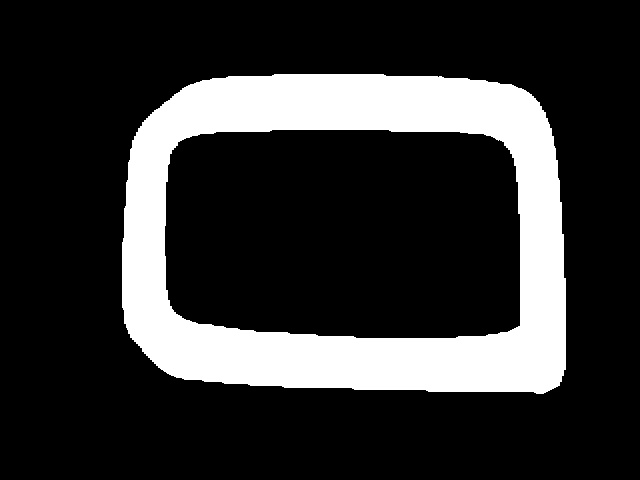
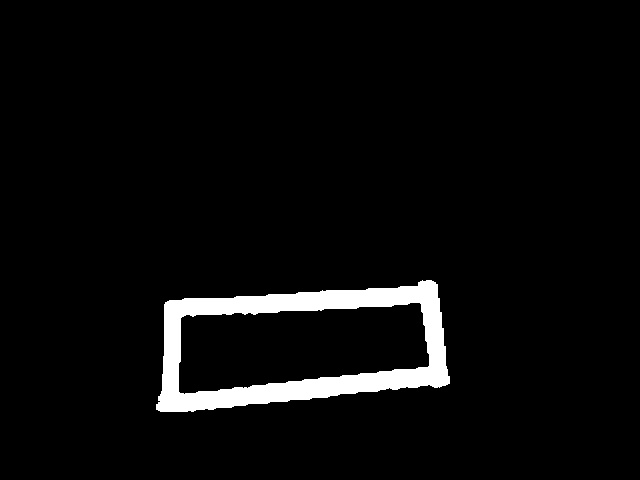
Monday stuff idk waht to commit :D

Changed region(s): [[0.1875, 0.1562, 0.9062, 0.875]]

diff --git a/AI and controls/Controls test/track_vision.py b/AI and controls/Controls test/track_vision.py
@@ -48,12 +48,26 @@ def white_pixels_side(mask, axis="y"):
 
 
 def get_track_mask(image):
+    hsv = cv.cvtColor(image, cv.COLOR_BGR2HSV)
+
+    # Define lower and upper bounds for red in HSV
+    lower_red1 = np.array([0, 70, 50])
+    upper_red1 = np.array([10, 255, 255])
+
+    lower_red2 = np.array([160, 70, 50])
+    upper_red2 = np.array([180, 255, 255])
+
+    # Create two masks and combine them
+    mask1 = cv.inRange(hsv, lower_red1, upper_red1)
+    mask2 = cv.inRange(hsv, lower_red2, upper_red2)
+    red_mask = cv.bitwise_or(mask1, mask2)
+
     lower_blue = np.array([90, 45, 30])  # Lower hue, lower saturation and brightness
     upper_blue = np.array([140, 255, 255])  # Keep upper bound wide
     image = cv.cvtColor(image, cv.COLOR_BGR2HSV)
     mask = cv.inRange(image, lower_blue, upper_blue)
     dialite_kernel = cv.getStructuringElement(cv.MORPH_ELLIPSE, (5, 5))
-    dialated_mask = cv.dilate(mask, dialite_kernel, iterations=2)
+    dialated_mask = cv.dilate(red_mask, dialite_kernel, iterations=2)
     contours, hierarchy = cv.findContours(
         dialated_mask, cv.RETR_TREE, cv.CHAIN_APPROX_SIMPLE
     )
@@ -328,6 +342,14 @@ def race_loop(player1, player2=None):
             break
 
 
+def save_track_data():
+    cap = cv.VideoCapture("rtsp://raspberrypi:8554/cam1", cv.CAP_FFMPEG)
+    ret, frame = cap.read()
+    track_mask = get_track_mask(frame)
+    cv.imwrite("Track data/track_mask.jpg", track_mask)
+    cv.imwrite("Track data/reference.jpg", frame)
+
+
 def initialize_data():
     video = cv.VideoCapture(1)
     ret, frame = video.read()
@@ -340,6 +362,6 @@ def initialize_data():
 
 
 if __name__ == "__main__":
-    pass
+    save_track_data()
     # user1 = User(pygame.joystick.Joystick(0), "Player 1")
     # race_loop(user1, None)

diff --git a/AI and controls/CV/test.py b/AI and controls/CV/test.py
@@ -6,10 +6,11 @@ import numpy as np
 import sys
 
 
-cap = cv.VideoCapture("rtsp://raspberrypi:8554/cam1")
+cap = cv.VideoCapture("rtsp://raspberrypi:8554/cam1", cv.CAP_FFMPEG)
+
 
 params = aruco.DetectorParameters()
-tag = aruco.getPredefinedDictionary(aruco.DICT_4X4_250)
+tag = aruco.getPredefinedDictionary(aruco.DICT_APRILTAG_25H9)
 detector = aruco.ArucoDetector(tag, params)
 
 width = int(cap.get(cv.CAP_PROP_FRAME_WIDTH))
@@ -21,21 +22,21 @@ print(f"Width: {width}, Height: {height}")
 while True:
     timer = time.time()
     ret, frame = cap.read()
-    gray = cv.cvtColor(frame, cv.COLOR_BGR2GRAY)
-    corners, ids, _ = detector.detectMarkers(gray)
-    if ids is not None:
-        aruco.drawDetectedMarkers(frame, corners, ids)
-    fps = 1 / (time.time() - timer)
-
-    cv.putText(
-        frame,
-        f"FPS: {fps:.2f}",
-        (10, 30),
-        cv.FONT_HERSHEY_SIMPLEX,
-        1,
-        (0, 255, 0),
-        2,
-    )
+    # gray = cv.cvtColor(frame, cv.COLOR_BGR2GRAY)
+    # corners, ids, _ = detector.detectMarkers(gray)
+    # if ids is not None:
+    #     aruco.drawDetectedMarkers(frame, corners, ids)
+    # fps = 1 / (time.time() - timer)
+    #
+    # cv.putText(
+    #     frame,
+    #     f"FPS: {fps:.2f}",
+    #     (10, 30),
+    #     cv.FONT_HERSHEY_SIMPLEX,
+    #     1,
+    #     (0, 255, 0),
+    #     2,
+    # )
 
     cv.imshow("Frame", frame)
     if cv.waitKey(1) & 0xFF == ord("q"):

diff --git a/AI and controls/Controls test/race_main.py b/AI and controls/Controls test/race_main.py
@@ -50,7 +50,7 @@ class User:
         if not is_player:
             self.ip = os.getenv("AI_IP")
         else:
-            self.ip = os.getenv("IP" + str(self.id))
+            self.ip = os.getenv("IP" + str(arucoID))
             self.is_player = is_player
             joystick = pygame.joystick.Joystick(player_number - 1)
             joystick.init()
